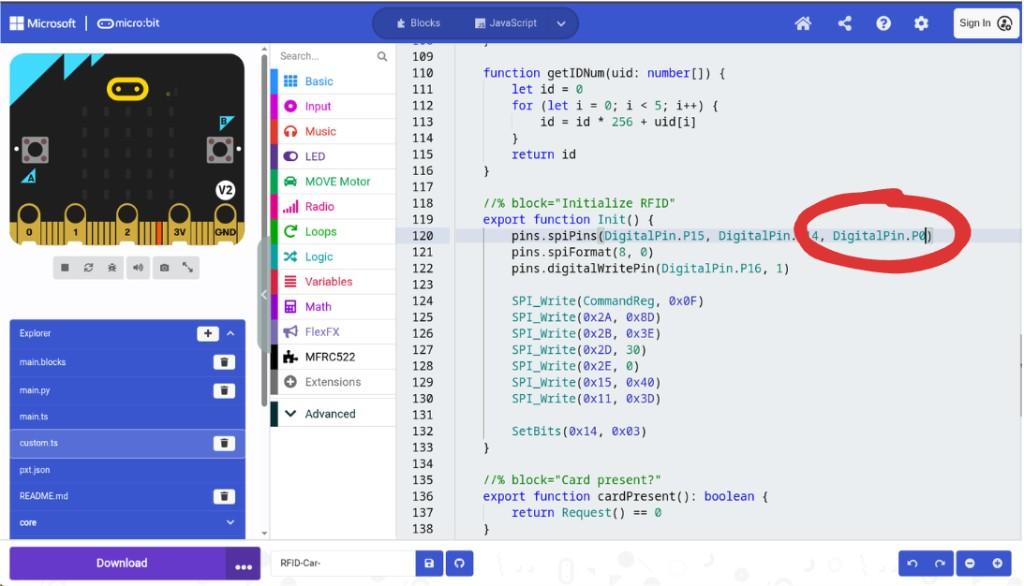
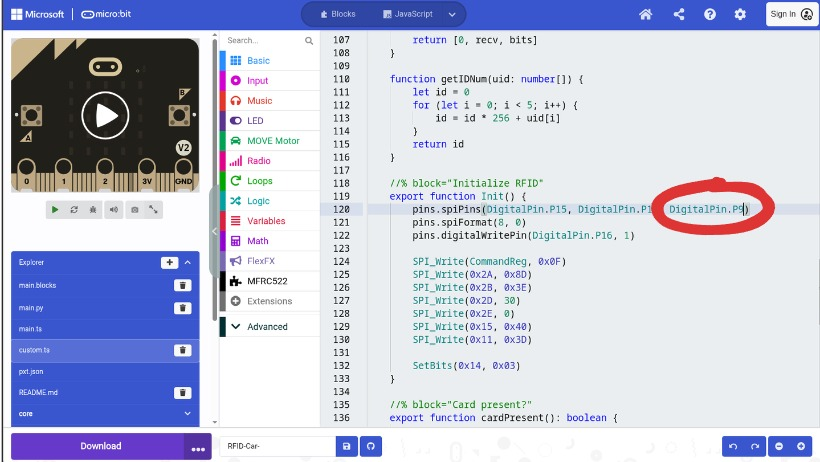
Move RFID SCK off the speaker pin to P9.
P0 is the micro:bit default audio output, so SPI clock traffic ticks during card reads.

diff --git a/topic-03-robot/unit-2/book-b/00.Editing the RFID library.md b/topic-03-robot/unit-2/book-b/00.Editing the RFID library.md
@@ -6,13 +6,13 @@ This is **supplementary** facilitator content. Most kits only need the hardware 
 
 There are **many reasons** facilitators may need to edit the RFID library / `custom.ts` — not only the default SCK pin. For example:
 
-- An older MakeCode RFID extension still assumes **SCK on P13**, but the kit is wired for **P0**
+- An older MakeCode RFID extension still assumes **SCK on P13**, but the kit is wired for **P9**
 - A **broken or flaky pin on EdgeBit** (or the micro:bit) — remap SPI / CS to a healthy pin
 - A pin that is **not driving enough voltage / signal** for reliable SPI — try another free pin and update `custom.ts` to match
 - Wiring had to change mid-workshop (spare EdgeBit, different jumper layout, damaged lead)
 - Tags still do not read even though the physical pin map looks correct
 
-Whenever the **hardware pins change**, the TypeScript pin setup must match. The walkthrough below uses **P13 → P0** as the golden example of that kind of edit.
+Whenever the **hardware pins change**, the TypeScript pin setup must match. The walkthrough below uses **P13 → P9** as the golden example of that kind of edit.
 
 ## Caution — check the micro:bit pinout
 
@@ -32,10 +32,10 @@ Default many RC522 MakeCode libraries:
 pins.spiPins(DigitalPin.P15, DigitalPin.P14, DigitalPin.P13) // MOSI, MISO, SCK
 ```
 
-Workshop wiring needs SCK on **P0**:
+Workshop wiring needs SCK on **P9**. Leave it off **P0** — that pin is the speaker, and SPI traffic there ticks during reads:
 
 ```typescript
-pins.spiPins(DigitalPin.P15, DigitalPin.P14, DigitalPin.P0) // MOSI, MISO, SCK
+pins.spiPins(DigitalPin.P15, DigitalPin.P14, DigitalPin.P9) // MOSI, MISO, SCK
 ```
 
 Use the same process for any other pin remap — find `pins.spiPins(...)` (and related CS / NSS pins such as **P16**), change them to match the working hardware, then redownload.

diff --git a/topic-03-robot/unit-2/book-a/04.Firmware.md b/topic-03-robot/unit-2/book-a/04.Firmware.md
@@ -1,18 +1,18 @@
 # Firmware notes
 
-Before the workshop, confirm kits use an RFID / RC522 MakeCode build that matches the **SCK on P0** wiring.
+Before the workshop, confirm kits use an RFID / RC522 MakeCode build that matches the **SCK on P9** wiring.
 
 Reference project (facilitators):  
-[https://makecode.microbit.org/_ipa2XHEoDX7U](https://makecode.microbit.org/_ipa2XHEoDX7U)
+[https://makecode.microbit.org/_YbTgFfazUVa6](https://makecode.microbit.org/_YbTgFfazUVa6)
 
 ## Known pin gotcha
 
-Many stock RFID libraries default **SCK to P13**. This workshop uses **SCK on P0**. If reads fail after wiring looks correct, the library TypeScript may still be on P13.
+Many stock RFID libraries default **SCK to P13**. This workshop uses **SCK on P9**. P0 is the micro:bit’s default audio pin, so a clock signal there makes the speaker tick on every card read. If reads fail after wiring looks correct, the library TypeScript may still be on P13 or P0.
 
 You may also need a `custom.ts` edit for other kit issues (broken EdgeBit pins, weak drive on a pin, mid-session remaps, and so on) — same process, different pin numbers. Do that **with caution** and only after checking the [micro:bit pinout](../book-b/index.html) (many pins are shared with LEDs, buttons, or I2C).
 
 ## Supplementary guide
 
-How to open and edit the library / **`custom.ts`** (golden example: **P13 → P0**), and regenerate the MakeCode share link so changes stay persistent:
+How to open and edit the library / **`custom.ts`** (golden example: **P13 → P9**), and regenerate the MakeCode share link so changes stay persistent:
 
 → [Editing the RFID library (`custom.ts`)](../book-b/index.html)

diff --git a/topic-03-robot/unit-2/book-b/02.P13 to P9.md b/topic-03-robot/unit-2/book-b/02.P13 to P9.md
@@ -1,0 +1,35 @@
+# Golden example: change SCK P13 → P9
+
+In `custom.ts`, find the SPI pin setup inside **Initialize RFID** / `Init()`. Stock libraries often use **P13** for SCK. The previous workshop link used **P0**, which is the speaker pin and ticks on every read. This workshop needs **P9**.
+
+Argument order is typically **MOSI, MISO, SCK**:
+
+```typescript
+// Before (common default — or DigitalPin.P0 on the previous workshop link)
+pins.spiPins(DigitalPin.P15, DigitalPin.P14, DigitalPin.P13)
+
+// After (workshop wiring)
+pins.spiPins(DigitalPin.P15, DigitalPin.P14, DigitalPin.P9)
+```
+
+| Role | Before | After |
+| --- | --- | --- |
+| MOSI | P15 | P15 (unchanged) |
+| MISO | P14 | P14 (unchanged) |
+| SCK | **P13** (or **P0**) | **P9** |
+
+## Step 4 — Edit the `spiPins` line
+
+Change the third pin to **P9** (circled in the screenshot):
+
+<img src="img/step-04-spi-pins.jpg" alt="custom.ts: spiPins SCK set to DigitalPin.P9" width="720" style="max-width:100%;height:auto;display:block;" />
+
+Also check nearby lines for any other hard-coded **P13** or **P0** used as SCK.
+
+## Verify
+
+1. **Download** the `.hex` to the car micro:bit
+2. Hold a known-good tag near the RC522 antenna
+3. Confirm a read / expected car reaction
+
+If it still fails, re-check the hardware pin map (SDA→P16, SCK→P9, MOSI→P15, MISO→P14, VCC 3V, GND).

diff --git a/topic-03-robot/unit-2/book-a/00.RFID and EdgeBit.md b/topic-03-robot/unit-2/book-a/00.RFID and EdgeBit.md
@@ -20,7 +20,7 @@ Mount an RFID-RC522 scanner on the micro:bit car (via EdgeBit) so the car can re
 - Firmware notes and known pin gotchas
 - High-level mounting tips on the car
 
-Supplementary (only if needed): [Editing the RFID library (`custom.ts`)](../book-b/index.html) — including the **P13 → P0** SCK fix and regenerating the MakeCode share link.
+Supplementary (only if needed): [Editing the RFID library (`custom.ts`)](../book-b/index.html) — including the **P13 → P9** SCK fix and regenerating the MakeCode share link.
 
 ## What this guide does not cover
 
@@ -29,4 +29,4 @@ Supplementary (only if needed): [Editing the RFID library (`custom.ts`)](../book
 - Full race game design
 
 A working reference MakeCode project (facilitators only):  
-[https://makecode.microbit.org/_ipa2XHEoDX7U](https://makecode.microbit.org/_ipa2XHEoDX7U)
+[https://makecode.microbit.org/_YbTgFfazUVa6](https://makecode.microbit.org/_YbTgFfazUVa6)

diff --git a/topic-03-robot/unit-2/book-a/03.Wiring.md b/topic-03-robot/unit-2/book-a/03.Wiring.md
@@ -5,7 +5,7 @@ Use this pin map for the workshop RC522 ↔ micro:bit (via EdgeBit) setup.
 | RC522 Pin | micro:bit Pin |
 | --- | --- |
 | SDA / NSS | P16 |
-| SCK | P0 |
+| SCK | P9 |
 | MOSI | P15 |
 | MISO | P14 |
 | RST | Not connected |
@@ -15,7 +15,7 @@ Use this pin map for the workshop RC522 ↔ micro:bit (via EdgeBit) setup.
 
 ## Checklist
 
-- Double-check **SCK is on P0** (not P13 — see Firmware step)
+- Double-check **SCK is on P9**. P0 is the speaker pin and ticks while the reader runs. Stock libraries often use P13 — see Firmware step.
 - Confirm VCC is **3V**, not 5V
 - Confirm GND is common with the micro:bit
 - Leave RST and IRQ disconnected unless a future kit revision says otherwise

diff --git a/README.md b/README.md
@@ -21,7 +21,7 @@ Live course: [https://tutors.dev/course/ty-microbitworkshop](https://tutors.dev/
 Under Robot Car, an **Advanced / Facilitator** section covers:
 
 - **RFID & EdgeBit hardware** — wiring the RC522 reader via EdgeBit for a tag-based race setup  
-- **Editing the RFID library (`custom.ts`)** — optional MakeCode library edits (for example SCK **P13 → P0**), pinout caution, and regenerating share links  
+- **Editing the RFID library (`custom.ts`)** — optional MakeCode library edits (for example SCK **P13 → P9**), pinout caution, and regenerating share links  
 
 ## Contributing
 

diff --git a/topic-03-robot/unit-2/book-b/03.Persistent share link.md b/topic-03-robot/unit-2/book-b/03.Persistent share link.md
@@ -2,7 +2,7 @@
 
 Editing `custom.ts` (or extension TypeScript) only updates **this project copy** in your browser.
 
-Old **Share** links still point at the previous snapshot. Kits that open an outdated share URL will get the old library (for example SCK = P13) again.
+Old **Share** links still point at the previous snapshot. Kits that open an outdated share URL will get the old library (for example SCK = P13, or SCK = P0 on the previous workshop link) again.
 
 ## If you want the fix to stick for the workshop
 

diff --git a/topic-03-robot/unit-2/book-b/01.Open custom.ts.md b/topic-03-robot/unit-2/book-b/01.Open custom.ts.md
@@ -1,7 +1,7 @@
 # Open `custom.ts` (MakeCode)
 
 Use the facilitator reference project (or a kit copy of it):  
-[https://makecode.microbit.org/_ipa2XHEoDX7U](https://makecode.microbit.org/_ipa2XHEoDX7U)
+[https://makecode.microbit.org/_YbTgFfazUVa6](https://makecode.microbit.org/_YbTgFfazUVa6)
 
 
 ## Step 1 — Switch to JavaScript
